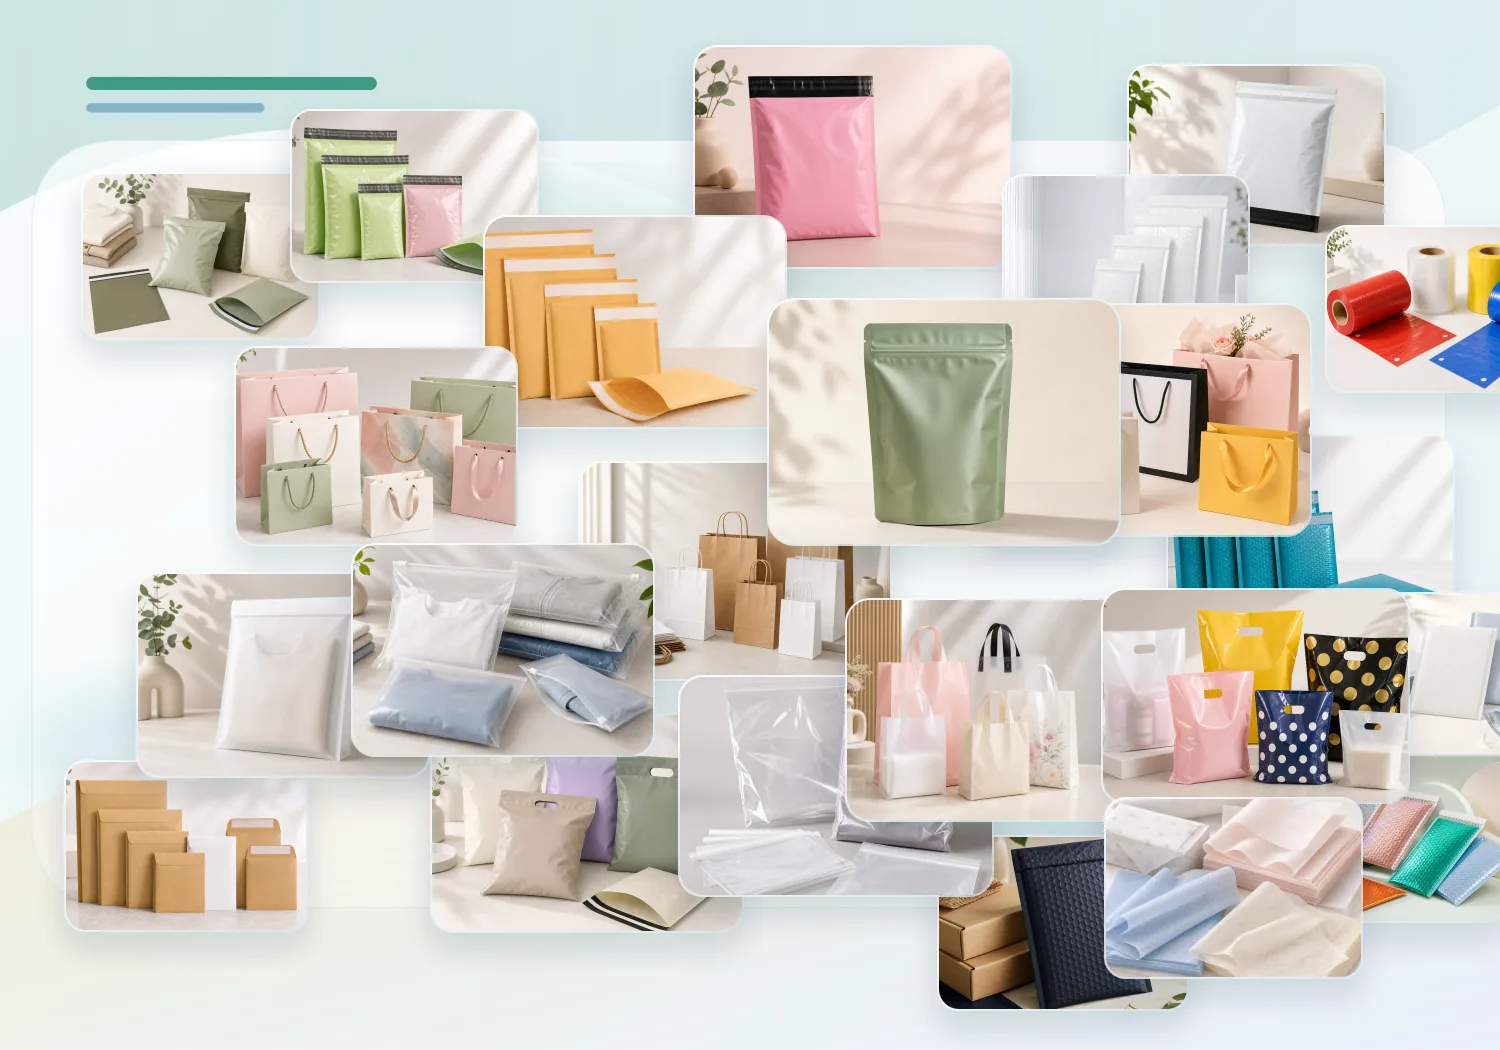
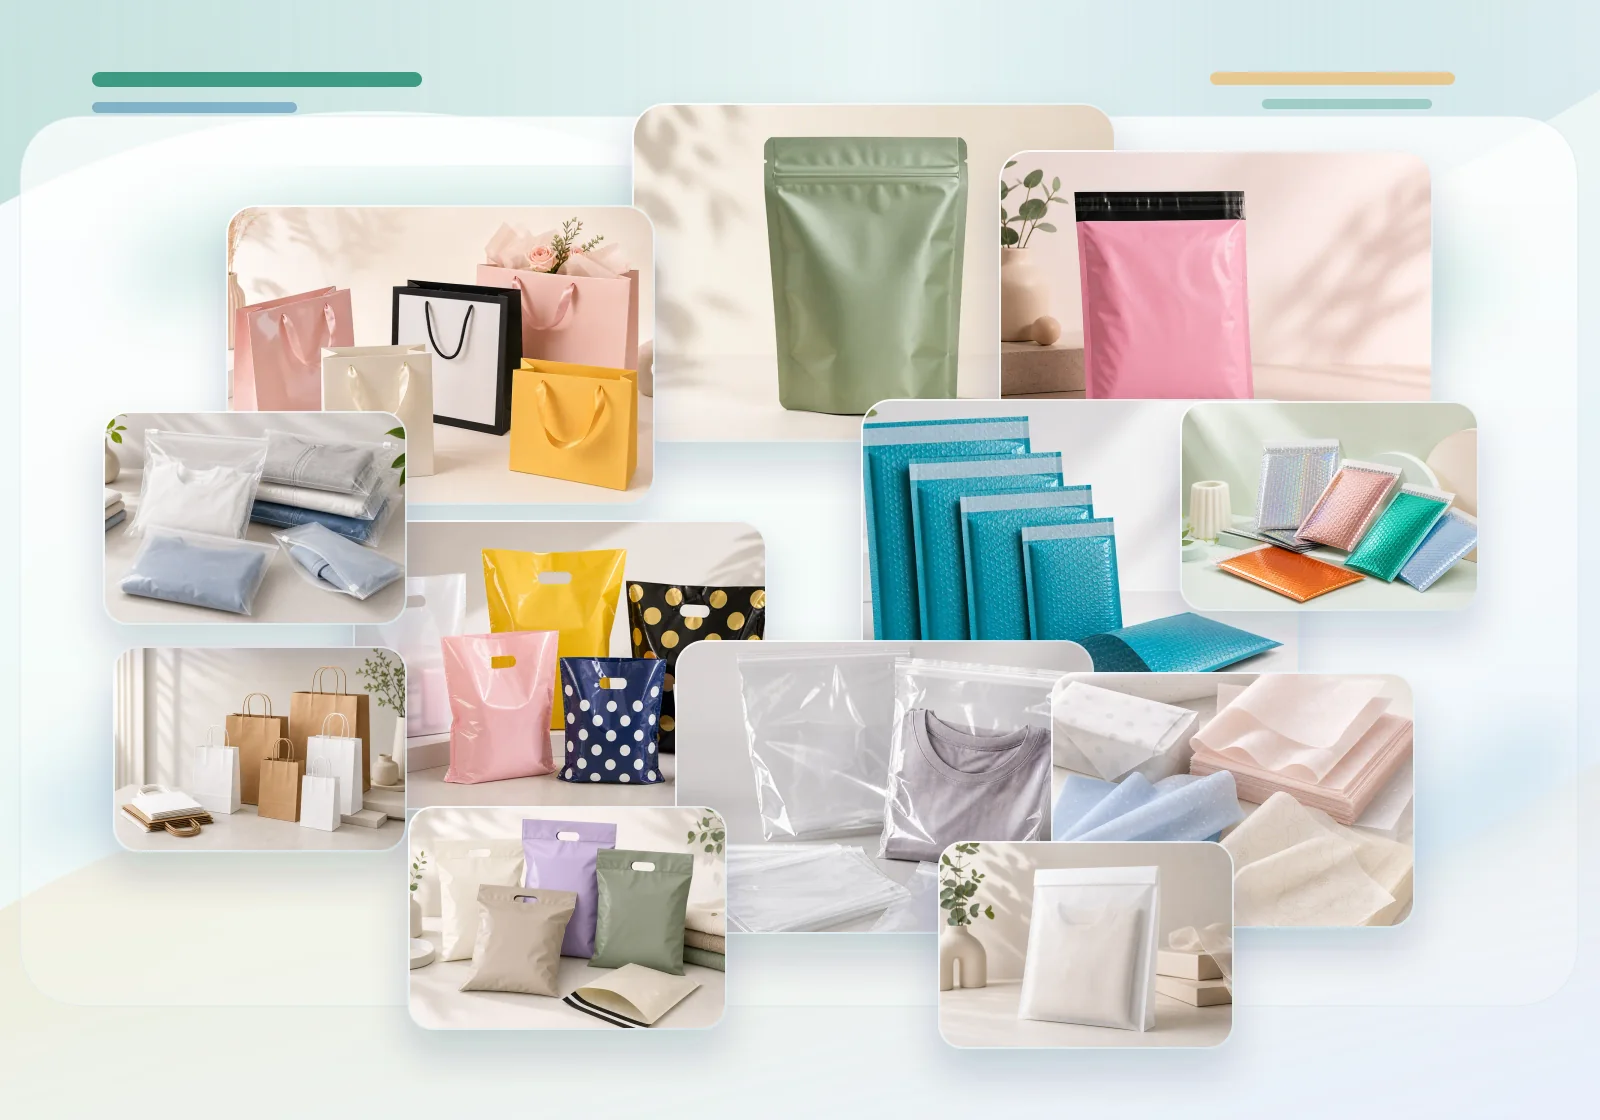
Enlarge homepage product showcase

diff --git a/src/styles.css b/src/styles.css
@@ -204,11 +204,11 @@ dd {
 
 .hero {
   display: grid;
-  grid-template-columns: minmax(0, 0.92fr) minmax(360px, 1.08fr);
-  gap: clamp(24px, 4.5vw, 62px);
-  align-items: center;
+  grid-template-columns: minmax(0, 0.76fr) minmax(480px, 1.24fr);
+  gap: clamp(18px, 3.6vw, 48px);
+  align-items: start;
   min-height: auto;
-  padding: clamp(24px, 4.2vw, 54px) clamp(18px, 5vw, 80px) clamp(34px, 5vw, 64px);
+  padding: clamp(18px, 3.2vw, 38px) clamp(18px, 5vw, 80px) clamp(34px, 5vw, 64px);
 }
 
 .hero > *,
@@ -233,9 +233,9 @@ dd {
 .hero h1,
 .page-hero h1 {
   margin: 0;
-  max-width: 760px;
+  max-width: 690px;
   color: var(--ink);
-  font-size: clamp(44px, 6.6vw, 82px);
+  font-size: clamp(44px, 5.9vw, 78px);
   line-height: 0.96;
   font-weight: 760;
 }
@@ -301,6 +301,8 @@ dd {
 }
 
 .hero-visual {
+  justify-self: end;
+  width: min(112%, 1060px);
   border-radius: 8px;
   background: transparent;
 }
@@ -1159,6 +1161,8 @@ dd {
 
   .hero-visual {
     order: -1;
+    justify-self: stretch;
+    width: 100%;
   }
 
   .hero-visual img {
